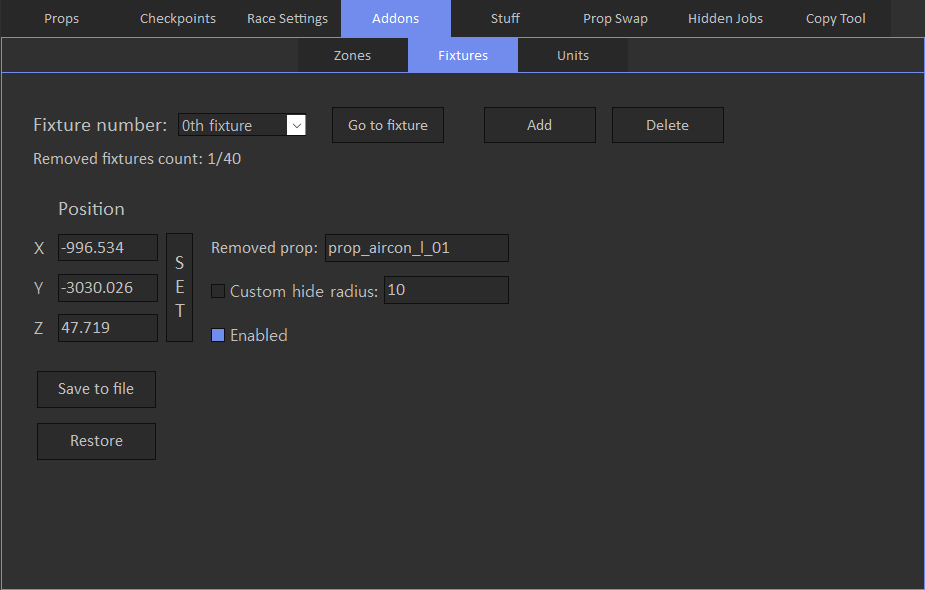
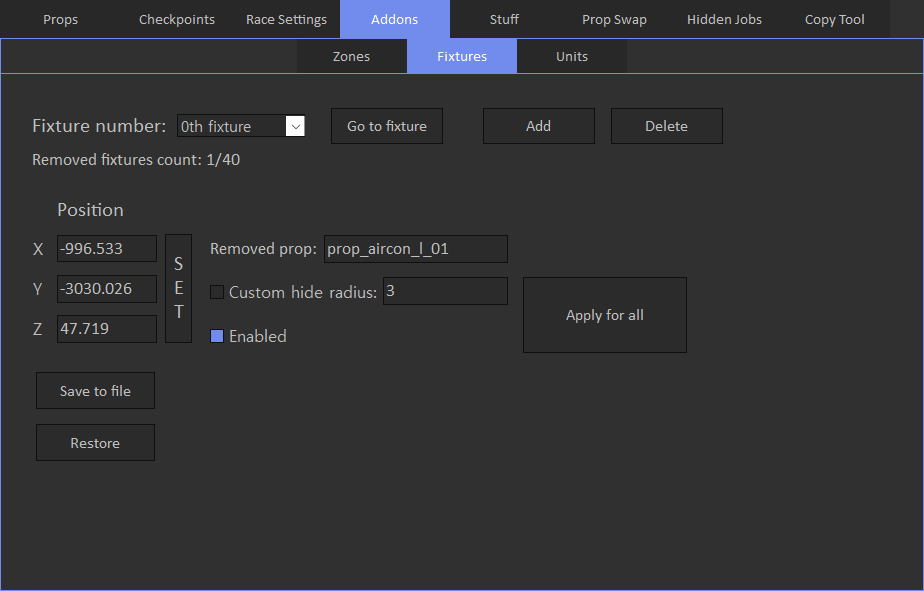
add save/restore for units

diff --git a/docs/props/advanced-restore.md b/docs/props/advanced-restore.md
@@ -19,6 +19,6 @@ If restored props are partially under map, you may need adjust Z coordinate of S
 
 But if you restore props and checkpoints separately, their position will not match. To fix it, there's an All in one restore option.
 
-All in one option accepts zip file that may contains props, dynamic props and checkpoint. Files can have different names, only file extension is important.
+All in one option accepts zip file that may contains props, dynamic props, checkpoints, fixtures and units. Files can have different names, only file extension is important.
 
 ![Img4](../../assets/images/props/img07.png)

diff --git a/docs/addons/fixtures/overview.md b/docs/addons/fixtures/overview.md
@@ -20,5 +20,7 @@ With this type, you don't need to know exact location of the prop.
 
 ![Img4](../../assets/images/addons/img04.png)
 
+'Apply for all' button sets custom hide radius and enabled settings same for all fixture removals.
+
 Some props cannot be selected with fixture remover tool in the game, so you have to look them up in the CodeWalker, for example.
 Also some props may have separate hitbox that also needs to be removed, it's prop name could also be found in the CodeWalker.
